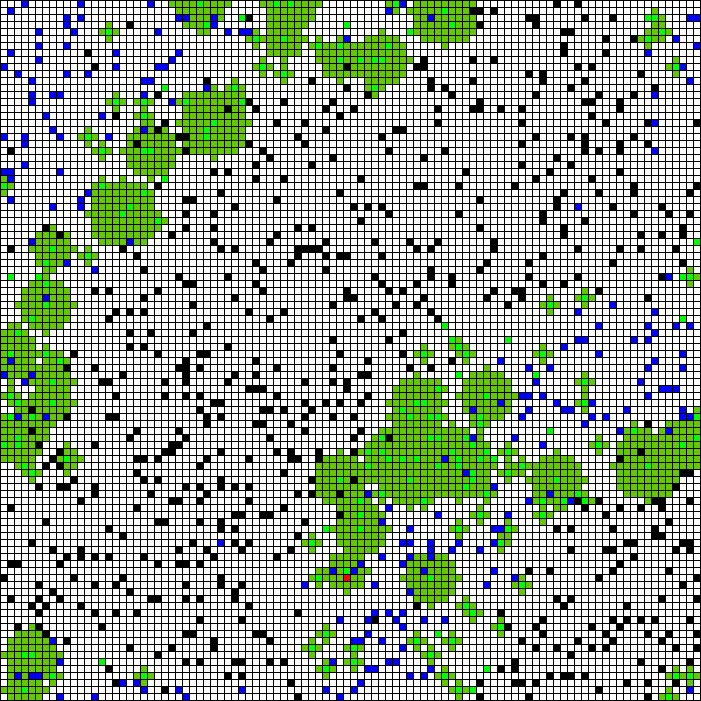
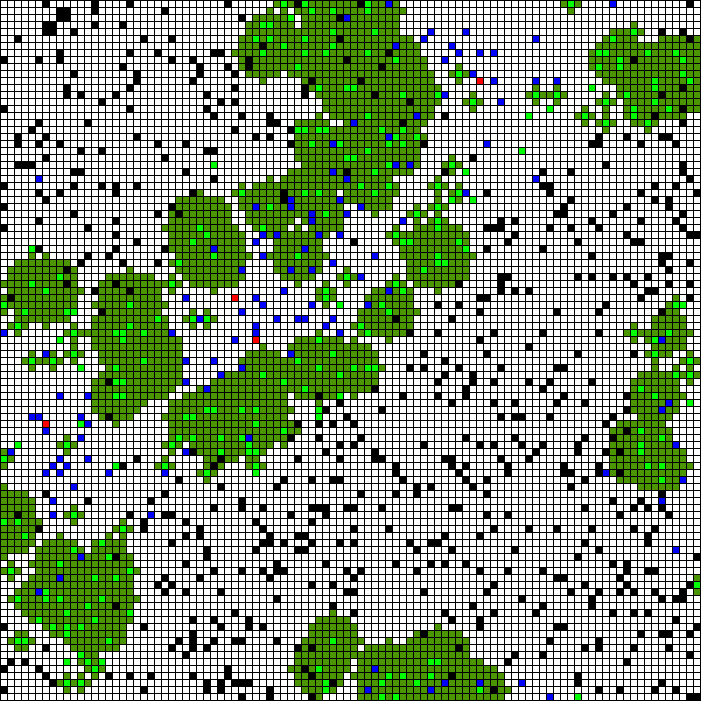
Changed the color of the masking OLIVE green so that it shows up better on the README.md figure.

diff --git a/pygame_sim.py b/pygame_sim.py
@@ -49,7 +49,7 @@ def main():
     WHITE = (255, 255, 255)
     RED = (255, 0, 0)
     GREEN = (0, 255, 0)
-    OLIVE = (100, 200, 0)
+    OLIVE = (75, 150, 0)
     BLUE = (0, 0, 255)
 
     # Define screen size based on the env_dim, the cell size of the grid, and
